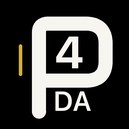
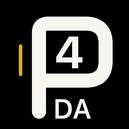
Align DA with Joined Rhythm baseline

Changed region(s): [[0.4031, 0.6822, 0.7132, 0.9302]]

diff --git a/design/app-icon/generate_joined_rhythm_vector_master.py b/design/app-icon/generate_joined_rhythm_vector_master.py
@@ -65,8 +65,9 @@ def render(mode, final_size=1080):
 
     da = fitted("DA", 62, 41, "Semibold")
     box = d.textbbox((0, 0), "DA", font=da)
-    # Keep a clear optical gap from both the P stem and the lower bowl.
-    d.text((sc(80)-box[0], sc(136)-box[1]), "DA", font=da, fill=ink)
+    # Align the visible bottom of DA exactly with the rounded foot of the P.
+    p_bottom = sc(166) + width // 2
+    d.text((sc(80)-box[0], p_bottom-box[3]), "DA", font=da, fill=ink)
     return im.resize((final_size, final_size), Image.Resampling.LANCZOS)
 
 
